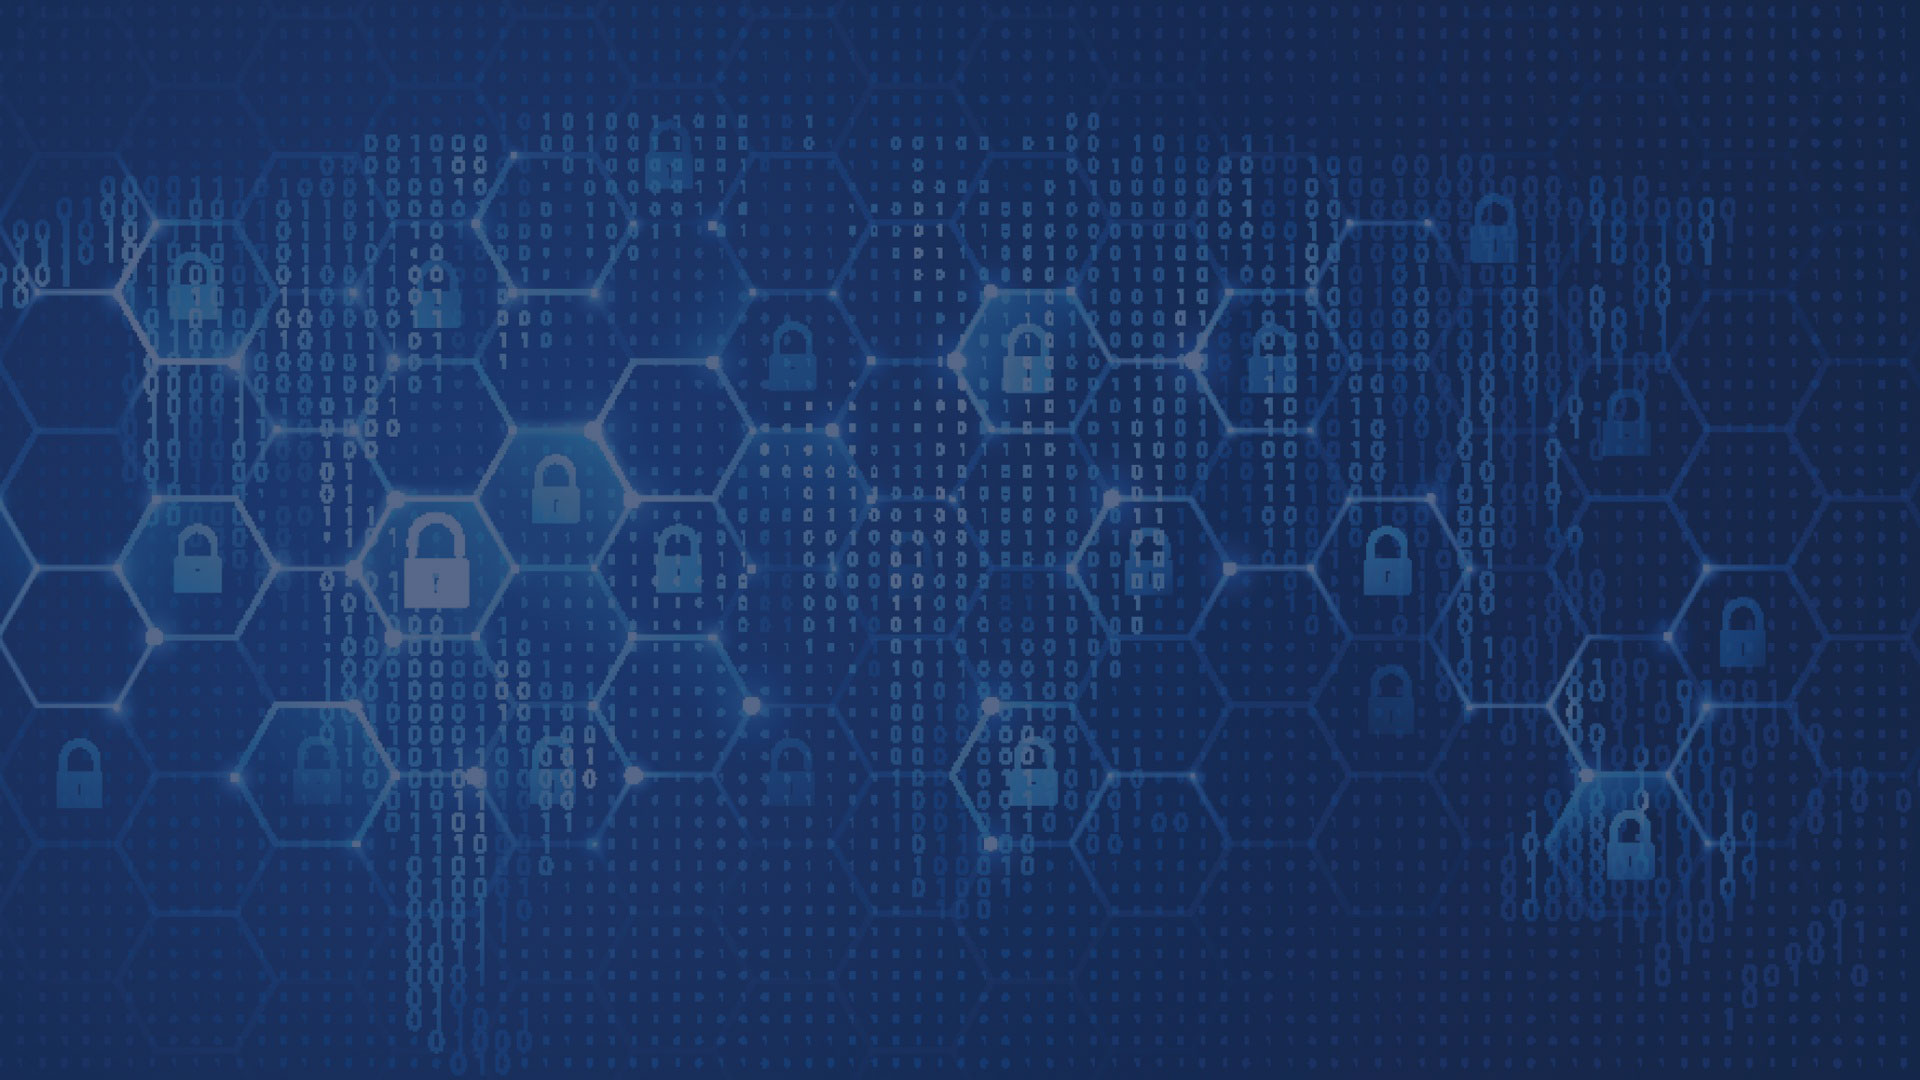
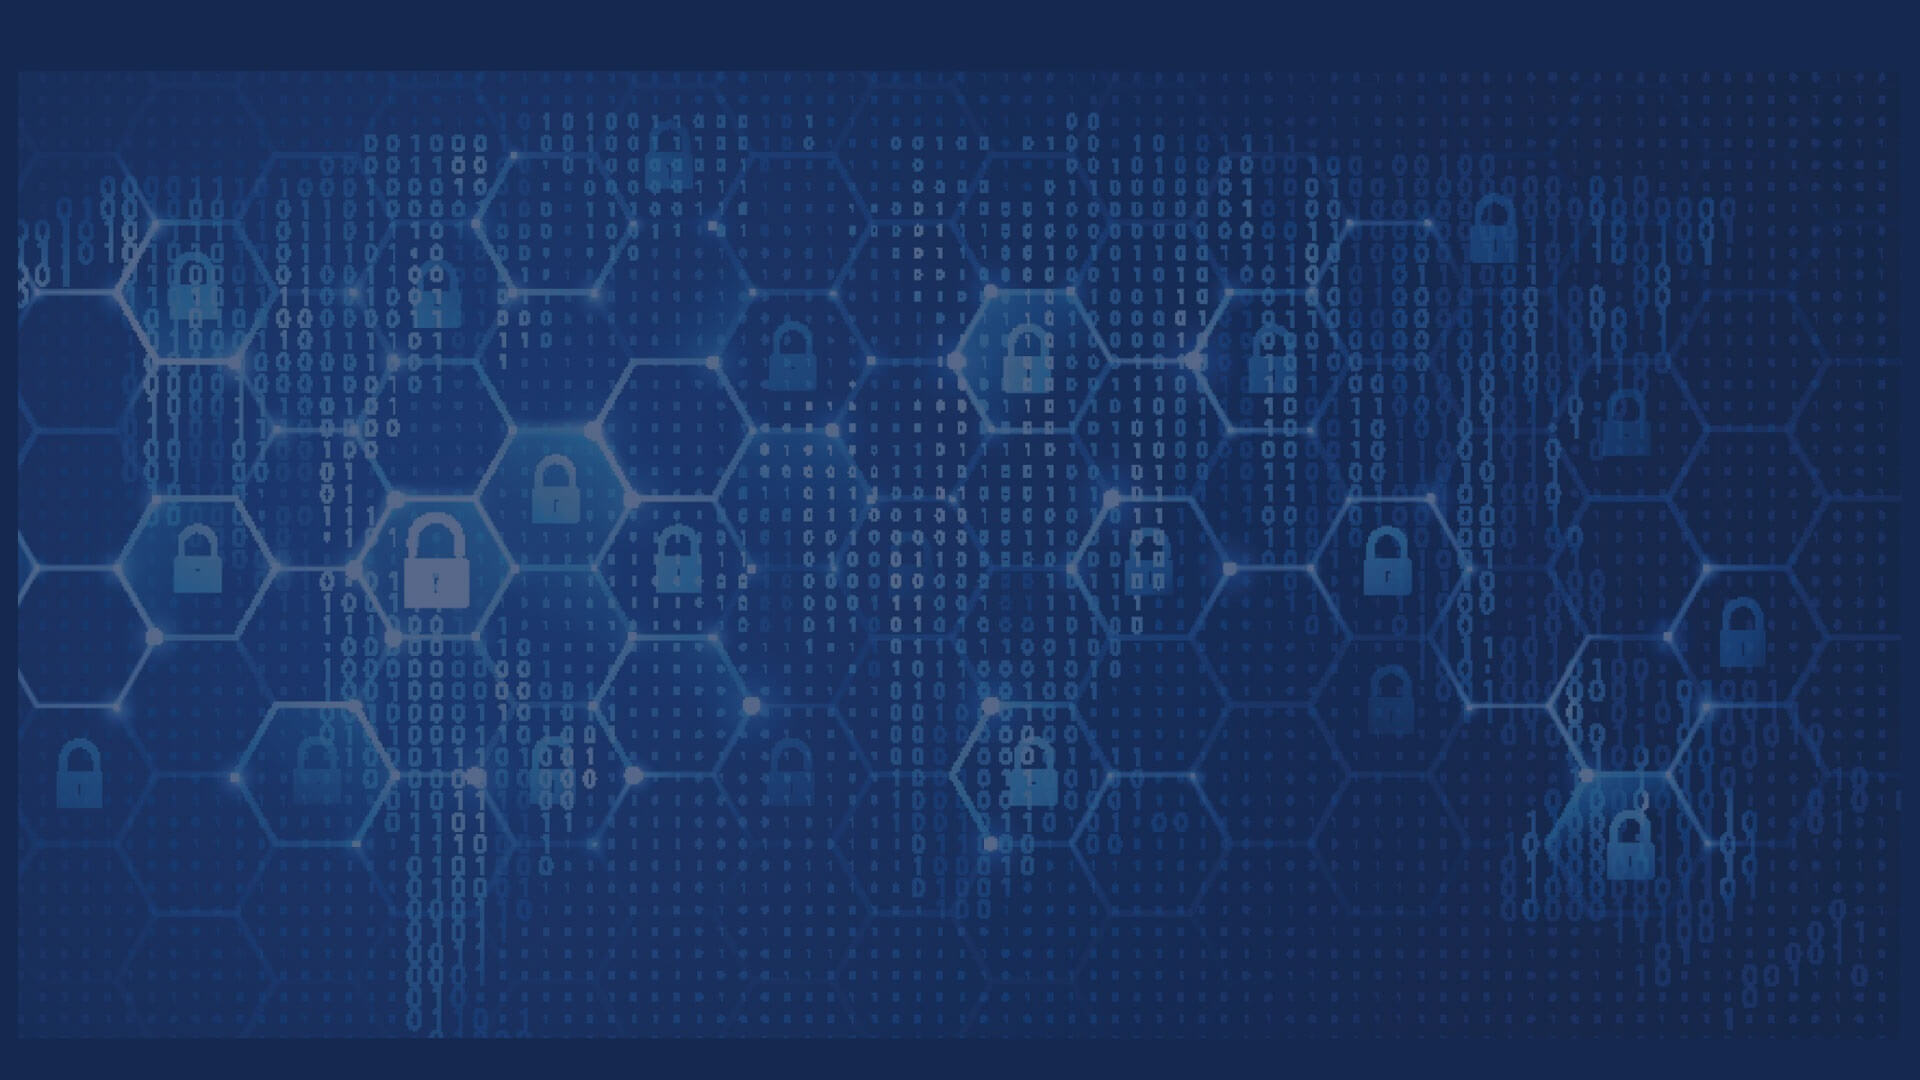
Add files via upload

diff --git a/spanish-project/index.html b/spanish-project/index.html
@@ -29,6 +29,8 @@ background-size: 100vw; height:100vh;}
   100% { transform: rotate(360deg); }
 }
 .eng {display:none;}
+.w3-blaack {background-color:rgba(0,0,0,0.7); color:rgb(250,250,240);font-size:0.9rem;}
+.w3-graay {background-color:rgba(35,35,35,1) !important}
 </style>
 </head>
 <body>
@@ -38,7 +40,7 @@ background-size: 100vw; height:100vh;}
 <h2 id="l" style="padding-top:100px">Loading resources....</h2>
 <div class="loader"></div>
 <script>
-var z = 0.8;
+var z = 0.5;
 
     setTimeout(function() {
     	document.getElementById("l").innerHTML = "Loading stylesheet from https://isaiah.dev/w3.css";
@@ -56,7 +58,6 @@ var z = 0.8;
         document.getElementById("l").innerHTML = "Loading Presenter...";
         document.getElementById("ll").style.display = "none";
         document.getElementById("lo").style.display = "block";
-        document.body.background = "background:url('bg.jpg')";
     }, 4500 * z);
 
 </script>
@@ -66,27 +67,55 @@ var z = 0.8;
 <body>
 
 <div id ="lo">
-<div class="w3-bar w3-black" style="font-size:0.6em;padding:8px;"></div>
+<div class="w3-bar w3-blaack" style="font-size:0.6em;padding:8px;"></div>
 <div class="w3-container">
-<h3 style="color:white;">Cómo es la ciberseguridad en los países hispanohablantes?</h3>
+<h3 style="color:rgb(240,240,240);text-align:center;font-size:1.2em;font-weight:bold;">Cómo es la ciberseguridad en los países hispanohablantes?</h3>
 
-<div class="w3-black" style="display:inline;float:right;max-width:670px;padding:8px;font-size:0.7em"><img style="float:left;padding-right:8px;" src="m.png" width="70px"><p>Most threats can be prevented by using antivirus/antimalware software like Malwarebytes, Avast, Nortan, etc., but not McAfee nobody likes McAfee.<br><i style="font-size:0.6rem;">(McAfee was sold, and the new company runined it; So much that John McAfee himself <a href="https://www.youtube.com/watch?v=bKgf5PaBzyg">made a funny video</a> of how it is hard to uninstall McAfee nowdays)</i></p></div>
+<div class="w3-blaack" style="display:inline;float:right;max-width:710px;padding:8px;font-size:0.7em"><img style="float:left;padding-right:8px;" src="m.png" width="65px">
+<p>Most threats can be prevented by using antivirus/antimalware software like Malwarebytes, Avast, Nortan, etc., but not McAfee nobody likes McAfee.<br>
+<i style="font-size:0.55rem;">(McAfee was sold, and they runined it; So much that John McAfee himself
+<a href="https://www.youtube.com/watch?v=bKgf5PaBzyg">made a funny video</a> of how it is hard to uninstall McAfee nowdays)</i></p></div>
 
-<div>
-<img src="1.png" width="250px" style="border:1px solid black;">
+<div style="max-width:500px;background-color:black;color:white;padding:8px;font-size:0.8em;max-height:200px;">
+    <center><b style="padding:0;margin:0;">Leading Cyber Threats in Latin America</b></center>
+    <div style="padding-top:1px;">
+      <div class="w3-col w3-container" style="width:140px">Ransomware</div>
+      <div class="w3-rest w3-container"><div class="w3-graay w3-center"><div class="w3-green w3-container" id="myBar" style="height:20px;width:1%"></div></div>
+    </div></div>
+
+    <div style="padding-top:1px;">
+      <div class="w3-col w3-container" style="width:140px">Data Breach</div>
+      <div class="w3-rest w3-container"><div class="w3-graay w3-center"><div id="bar1" class="w3-green w3-container" style="height:20px;width:1%"></div></div>
+    </div></div>
+
+    <div style="padding-top:1px;">
+      <div class="w3-col w3-container" style="width:140px">Malware</div>
+      <div class="w3-rest w3-container"><div class="w3-graay w3-center"><div id="bar2" class="w3-green w3-container" style="height:20px;width:1%"></div></div>
+    </div></div>
 </div>
+<script>
+var z = 0;
+var zz = [58,55,52];
+function move(id, max) {
+  var xx=0; var el=document.getElementById(id); var w=10*z; var id=setInterval(f, 20);
+  function f(){ if (w >= max){clearInterval(id);
+    }else{el.style.width=(w++)+'%';el.innerHTML=w*1+'%'; if (z < 3 && xx == 0 && w > (40)){ xx = 1; z++; move("bar" + z, zz[z]); }}}
+}
+setTimeout(function() {move("myBar", 58);}, 2000)
+</script>
+
 <br>
 <div style="w3-row">
 <div class="w3-col s6">
-<div class="w3-black" style="padding:8px;max-width:540px;font-size:0.8em">
-<img style="float:right" src="https://st.drweb.com/static/new-www/news/2018/december/03_Android.BankBot.495.origin_2.1.png" width="120px">
+<div class="w3-blaack" style="padding:8px;max-width:540px;font-size:0.8em">
+<img style="float:right" src="net.png" width="110px">
 </p>
 <b>Brazilian mobile users hit with banking malware</b>
-<p>Clasificado como trojan: <i>BankBot.495.origin</i><br><br>Lo hace imitación de el pago sitio web<br>
+<p>Clasificado como trojan: <i>BankBot.495.origin</i><br>Lo hace imitación de el pago sitio web.
 Cuando los usuarios usan Bradesco, un banco, el troyano roba la información de la cuenta.<br><br><i>(see fake Netflix payment screen on right)</i><br></p><br>
 </div>
 <br>
-<div class="w3-black" style="padding:8px;max-width:540px;font-size:0.8em">
+<div class="w3-blaack" style="padding:8px;max-width:540px;font-size:0.8em">
 <b>A Study by Symantec <i>(Nortan Anti-virus)</i></b><br>
 <div class="eng">A world study, by the cybersecurity company Symantec, based on: malware, spam, cyber-attacks, ransomware and cryptojacking. The most insecure countries are Brazil, Mexico and Venezuela.</div>
 Un estudio, de la empresa de ciberseguridad Symantec, basado en: malware, spam, ciberataques, ransomware y cryptojacking. Los países más inseguros son Brasil, México y Venezuela. 
@@ -95,19 +124,19 @@ Un estudio, de la empresa de ciberseguridad Symantec, basado en: malware, spam, 
 <br>
 </div>
 <div class="w3-col s6">
-<div class="w3-black" style="padding:8px;max-width:600px;font-size:0.78em">
-<img style="float:right" src="map.png" width="250px;">
-<p>Mapa de ciberseguridad en el mundo.<br>Light = more protection,<br>Dark = less protection.</p>
-<i style="font-size:0.59rem">(source: https://itu.int/dms_pub/itu-d/opb/str/D-STR-GCI.01-2018-PDF-E.pdf)</i>
+<div class="w3-blaack" style="padding:8px;max-width:600px;font-size:0.78em">
+<img style="float:right" src="map.png" width="245px;">
+<p>Mapa de ciberseguridad en el mundo.<br>Light = more protection,<br>Dark = less protection.</p><br>
+<i style="font-size:0.6rem">source: <a src="https://itu.int/dms_pub/itu-d/opb/str/D-STR-GCI.01-2018-PDF-E.pdf">itu.int/dms_pub/itu-d/opb/str/D-STR-GCI.01-2018-PDF-E.pdf</a></i><br>
 </div>
 <br>
-<div class="w3-black" style="padding:8px;max-width:600px;font-size:0.8em">
-El costo del delito cibernético en América Latina es de $ 90 mil millones por año!<br>
+<div class="w3-blaack" style="padding:8px;max-width:600px;font-size:0.8em">
+El costo del delito cibernético en América Latina es de $90 mil millones por año!<br>
 In 2016, the Inter-American Development Bank issued a report putting the cost of cybercrime in Latin America at approximately US$90 billion per year. The report also found that the region in general suffers from a low level of public awareness when it comes to cybercrime.
 </div>
 <br>
-<div class="w3-black" style="padding:8px;max-width:700px;font-size:0.8em">
-On 14 August 2018, the Brazilian Congress passed a bill related to personal data protection. Mexico’s establishes the Instituto Nacional de Transparencia, Acceso a la Información y Protección de Datos Personales as Mexico’s data protection authority.
+<div class="w3-blaack" style="padding:8px;max-width:700px;font-size:0.8em">
+In 2018, the Brazilian Congress passed a bill related to personal data protection.<br>Mexico’s establishes the Instituto Nacional de Transparencia, Acceso a la Información y Protección de Datos Personales as Mexico’s data protection authority.
 </div>
 
 
@@ -116,7 +145,7 @@ On 14 August 2018, the Brazilian Congress passed a bill related to personal data
 
 </div>
 </div>
-<div class="w3-bar w3-black foot" style="color:white;background-color:black;">
+<div class="w3-bar foot" style="color:white;background-color:rgba(0,0,0,0.5);">
 Copyright &copy; 2021 by Isaiah.
 </div>
 </body>
